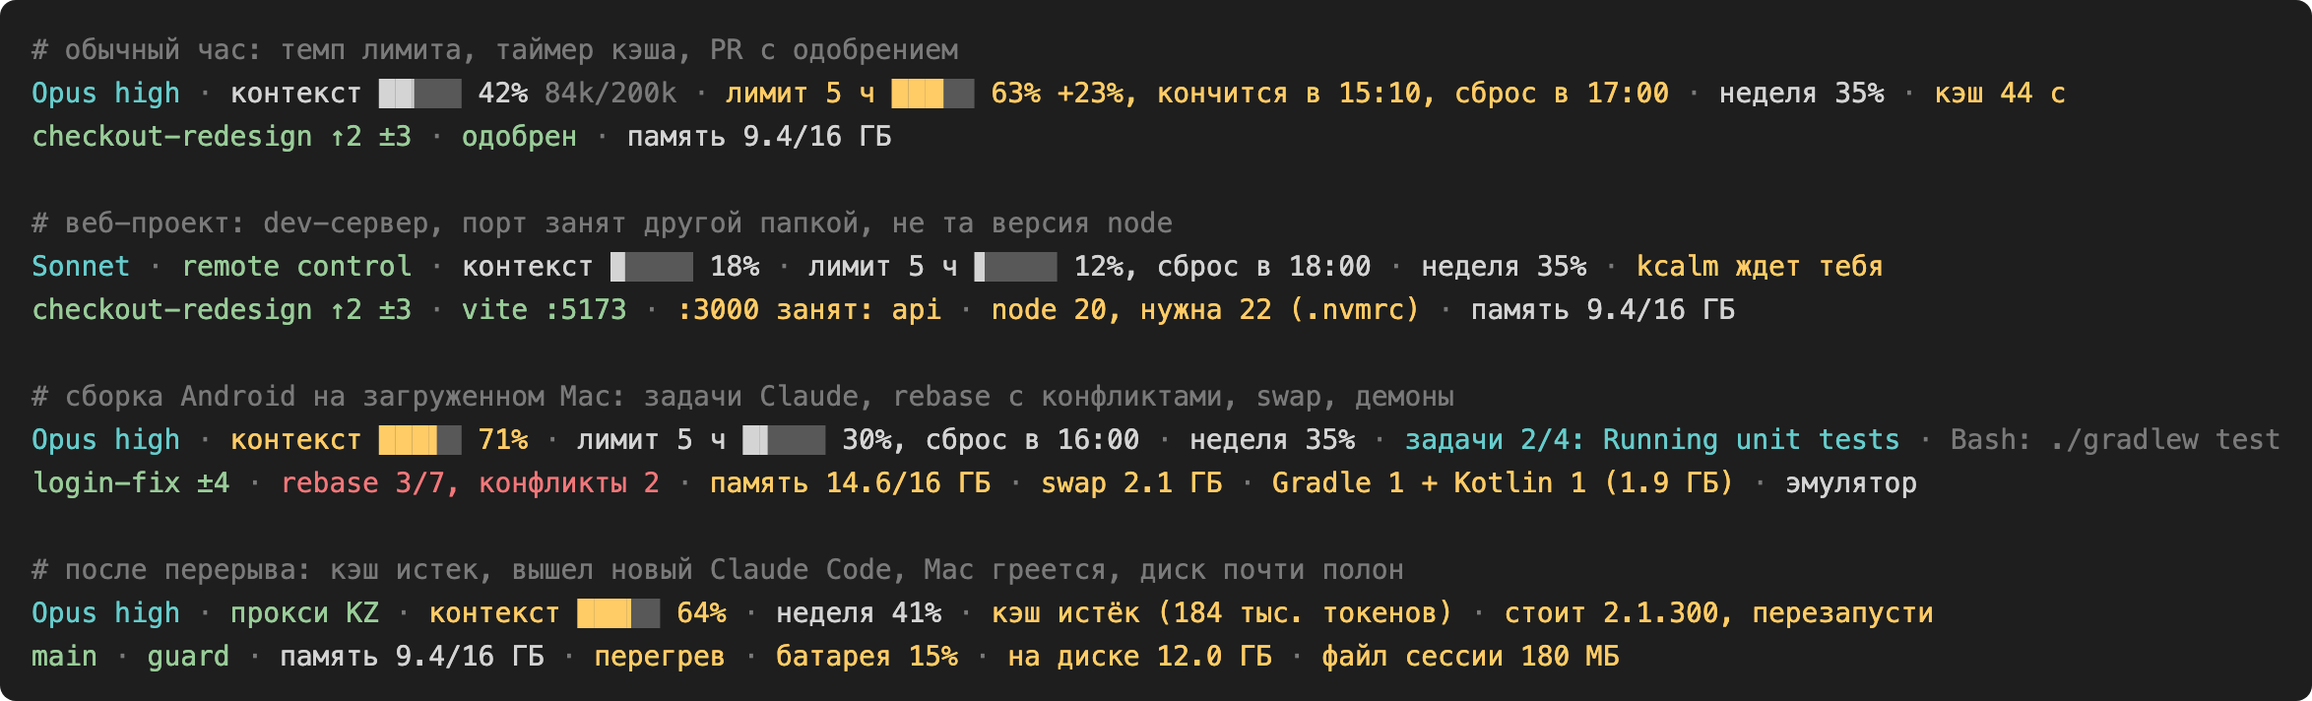
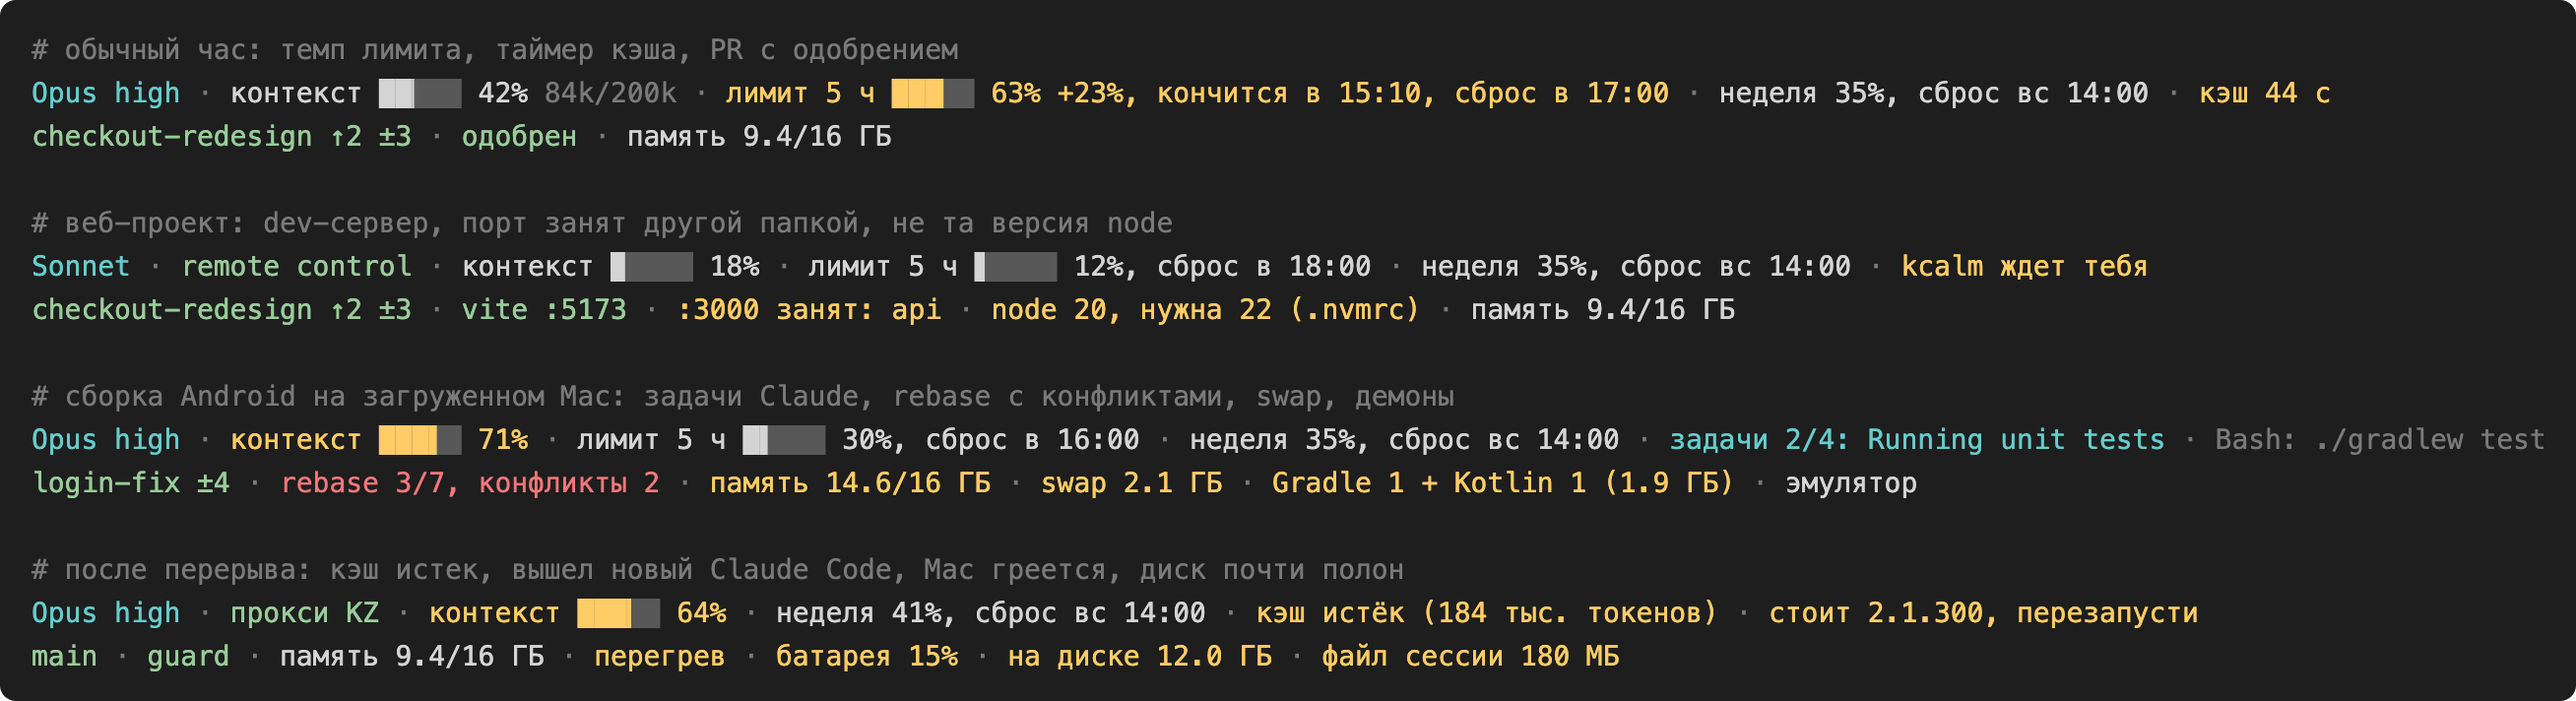
Always show when the weekly limit resets
The weekly reset time used to appear only from 50% or on a pace warning,
so on a calm week there was no way to see when the limit refills.

diff --git a/tests/test_promptsill.py b/tests/test_promptsill.py
@@ -276,9 +276,10 @@ class Pace(unittest.TestCase):
         lim = {"used_percentage": 95, "resets_at": self.now + 3600}
         self.assertIn(ESC + "[31m", ps.limit_part("spend_limit", lim, self.now)[1])
 
-    def test_week_hides_reset_when_calm(self):
+    def test_week_shows_reset_when_calm(self):
         part = ps.limit_part("seven_day", self.lim(20, 3 * 86400), self.now)
-        self.assertEqual(plain(part[1]), "week 20%")
+        self.assertTrue(plain(part[1]).startswith("week 20%, resets "), plain(part[1]))
+        self.assertEqual(plain(part[2]), "week 20%")
 
 
 class Cache(unittest.TestCase):

diff --git a/README.md b/README.md
@@ -7,7 +7,7 @@
 <a href="docs/preview-en.png"><img src="docs/preview-en.svg" alt="promptsill status line in four situations. An ordinary hour: context with token counts, limit pace, cache timer, an approved pull request. A web project: Remote Control, a session waiting for you, a dev server, a port held by another folder, the wrong node version. An Android build on a busy Mac: Claude's todo progress and running tool, a rebase with conflicts, memory, swap, Gradle and Kotlin daemons, the emulator. Back from a break: a proxy, an expired cache, a newer Claude Code installed, a guard badge, overheating, low battery, low disk, a large session file"></a>
 
 ```text
-Opus high · context ██▏   42% 84k/200k · 5h ███▏  63% +23%, runs out at 15:10, resets at 17:00 · week 35% · cache 44s
+Opus high · context ██▏   42% 84k/200k · 5h ███▏  63% +23%, runs out at 15:10, resets at 17:00 · week 35%, resets Sun 14:00 · cache 44s
 checkout-redesign ↑2 ±3 · approved · memory 9.4/16 GB
 ```
 
